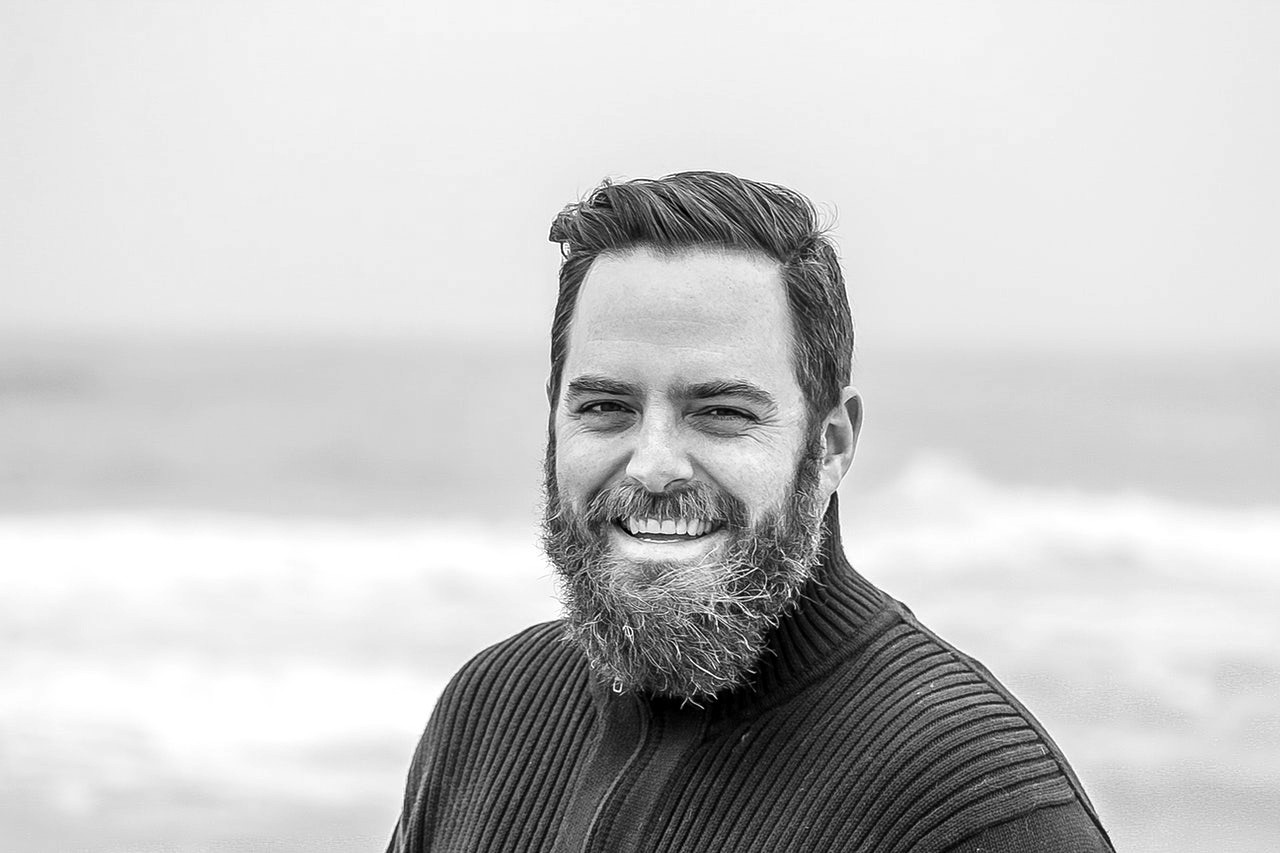
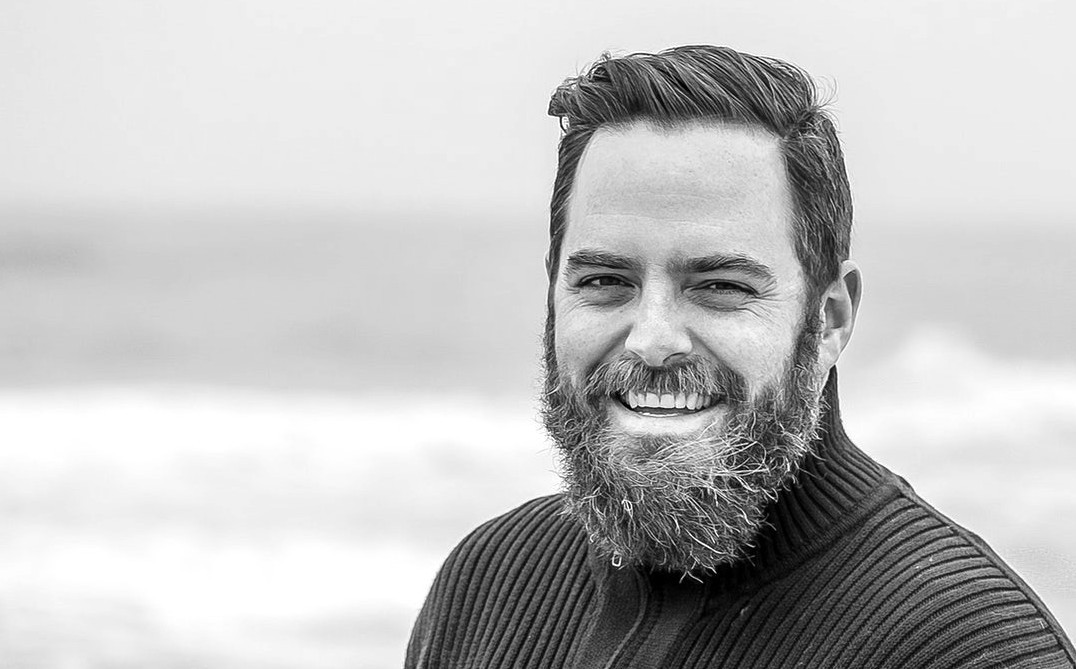
header profil

diff --git a/profil.html b/profil.html
@@ -7,6 +7,7 @@
     <meta http-equiv="X-UA-Compatible" content="ie=edge">
     <link rel="stylesheet" href="style.css">
     <link rel="stylesheet" href="navbar.css">
+    <link href="https://fonts.googleapis.com/css?family=Nunito|Poppins&display=swap" rel="stylesheet">
 
     <title>Profil</title>
 </head>
@@ -15,6 +16,46 @@
     <div id="mainContainer">
         <!-- Menu -->
 
+        <!-- Section Quentin -->
+
+        <div id="socialBar--top">
+            <ul>
+                <li>
+                    <a href="">
+                        <svg enable-background="new 0 0 16 16" version="1.1" viewBox="0 0 16 16" xml:space="preserve"
+                            xmlns="http://www.w3.org/2000/svg">
+                            <path
+                                d="M15.3,0H0.7C0.3,0,0,0.3,0,0.7v14.7C0,15.7,0.3,16,0.7,16H8v-5H6V8h2V6c0-2.1,1.2-3,3-3 c0.9,0,1.8,0,2,0v3h-1c-0.6,0-1,0.4-1,1v1h2.6L13,11h-2v5h4.3c0.4,0,0.7-0.3,0.7-0.7V0.7C16,0.3,15.7,0,15.3,0z" />
+                        </svg>
+                    </a>
+                </li>
+                <li><a href=""><svg enable-background="new 0 0 16 16" version="1.1" viewBox="0 0 16 16"
+                            xml:space="preserve" xmlns="http://www.w3.org/2000/svg">
+                            <path
+                                d="m16 3c-0.6 0.3-1.2 0.4-1.9 0.5 0.7-0.4 1.2-1 1.4-1.8-0.6 0.4-1.3 0.6-2.1 0.8-0.6-0.6-1.5-1-2.4-1-1.7 0-3.2 1.5-3.2 3.3 0 0.3 0 0.5 0.1 0.7-2.7-0.1-5.2-1.4-6.8-3.4-0.3 0.5-0.4 1-0.4 1.7 0 1.1 0.6 2.1 1.5 2.7-0.5 0-1-0.2-1.5-0.4 0 1.6 1.1 2.9 2.6 3.2-0.3 0.1-0.6 0.1-0.9 0.1-0.2 0-0.4 0-0.6-0.1 0.4 1.3 1.6 2.3 3.1 2.3-1.1 0.9-2.5 1.4-4.1 1.4h-0.8c1.5 0.9 3.2 1.5 5 1.5 6 0 9.3-5 9.3-9.3v-0.4c0.7-0.5 1.3-1.1 1.7-1.8z" />
+                        </svg></a></li>
+                <li><a href=""><svg enable-background="new 0 0 16 16" version="1.1" viewBox="0 0 16 16"
+                            xml:space="preserve" xmlns="http://www.w3.org/2000/svg">
+                            <circle cx="12.145" cy="3.892" r=".96" />
+                            <path
+                                d="m8 12c-2.206 0-4-1.794-4-4s1.794-4 4-4 4 1.794 4 4-1.794 4-4 4zm0-6c-1.103 0-2 0.897-2 2s0.897 2 2 2 2-0.897 2-2-0.897-2-2-2z"
+                                data-color="color-2" />
+                            <path
+                                d="m12 16h-8c-2.056 0-4-1.944-4-4v-8c0-2.056 1.944-4 4-4h8c2.056 0 4 1.944 4 4v8c0 2.056-1.944 4-4 4zm-8-14c-0.935 0-2 1.065-2 2v8c0 0.953 1.047 2 2 2h8c0.935 0 2-1.065 2-2v-8c0-0.935-1.065-2-2-2h-8z" />
+                        </svg></a></li>
+                <li><a href=""><svg enable-background="new 0 0 16 16" version="1.1" viewBox="0 0 16 16"
+                            xml:space="preserve" xmlns="http://www.w3.org/2000/svg">
+                            <path
+                                d="M15.8,4.8c-0.2-1.3-0.8-2.2-2.2-2.4C11.4,2,8,2,8,2S4.6,2,2.4,2.4C1,2.6,0.3,3.5,0.2,4.8C0,6.1,0,8,0,8 s0,1.9,0.2,3.2c0.2,1.3,0.8,2.2,2.2,2.4C4.6,14,8,14,8,14s3.4,0,5.6-0.4c1.4-0.3,2-1.1,2.2-2.4C16,9.9,16,8,16,8S16,6.1,15.8,4.8z M6,11V5l5,3L6,11z" />
+                        </svg>
+                    </a></li>
+            </ul>
+
+            <div class="rotate">
+                02 <div class="line"></div>
+            </div>
+
+        </div>
 
         <nav id="navbar" role="navigation">
 
@@ -41,6 +82,29 @@
             <img class="search" src="icons/search.svg" alt="">
 
         </nav>
+
+
+        <section id="faceHeader__profil">
+            <div id="ficheTalent__profil">
+
+                <div id="portrait__wide">
+                    <div id="name">
+                        <h1>Derek <br>Anderson</h1>
+                        <h2>British comedian</h2>
+                    </div>
+                </div>
+
+                <a class="ficheTalent__profil__link" href="">Enquire about Derek</a>
+
+            </div>
+
+        </section>
+
+
+
+
+
+
 
         <!-- Section Noah  -->
         <section id="sectionprofile">

diff --git a/about.html b/about.html
@@ -12,8 +12,49 @@
 </head>
 
 <body>
-    <div id="mainContainer">
 
+
+
+
+    <div id="mainContainer">
+        <div id="socialBar--top">
+            <ul>
+                <li>
+                    <a href="">
+                        <svg enable-background="new 0 0 16 16" version="1.1" viewBox="0 0 16 16" xml:space="preserve"
+                            xmlns="http://www.w3.org/2000/svg">
+                            <path
+                                d="M15.3,0H0.7C0.3,0,0,0.3,0,0.7v14.7C0,15.7,0.3,16,0.7,16H8v-5H6V8h2V6c0-2.1,1.2-3,3-3 c0.9,0,1.8,0,2,0v3h-1c-0.6,0-1,0.4-1,1v1h2.6L13,11h-2v5h4.3c0.4,0,0.7-0.3,0.7-0.7V0.7C16,0.3,15.7,0,15.3,0z" />
+                        </svg>
+                    </a>
+                </li>
+                <li><a href=""><svg enable-background="new 0 0 16 16" version="1.1" viewBox="0 0 16 16"
+                            xml:space="preserve" xmlns="http://www.w3.org/2000/svg">
+                            <path
+                                d="m16 3c-0.6 0.3-1.2 0.4-1.9 0.5 0.7-0.4 1.2-1 1.4-1.8-0.6 0.4-1.3 0.6-2.1 0.8-0.6-0.6-1.5-1-2.4-1-1.7 0-3.2 1.5-3.2 3.3 0 0.3 0 0.5 0.1 0.7-2.7-0.1-5.2-1.4-6.8-3.4-0.3 0.5-0.4 1-0.4 1.7 0 1.1 0.6 2.1 1.5 2.7-0.5 0-1-0.2-1.5-0.4 0 1.6 1.1 2.9 2.6 3.2-0.3 0.1-0.6 0.1-0.9 0.1-0.2 0-0.4 0-0.6-0.1 0.4 1.3 1.6 2.3 3.1 2.3-1.1 0.9-2.5 1.4-4.1 1.4h-0.8c1.5 0.9 3.2 1.5 5 1.5 6 0 9.3-5 9.3-9.3v-0.4c0.7-0.5 1.3-1.1 1.7-1.8z" />
+                        </svg></a></li>
+                <li><a href=""><svg enable-background="new 0 0 16 16" version="1.1" viewBox="0 0 16 16"
+                            xml:space="preserve" xmlns="http://www.w3.org/2000/svg">
+                            <circle cx="12.145" cy="3.892" r=".96" />
+                            <path
+                                d="m8 12c-2.206 0-4-1.794-4-4s1.794-4 4-4 4 1.794 4 4-1.794 4-4 4zm0-6c-1.103 0-2 0.897-2 2s0.897 2 2 2 2-0.897 2-2-0.897-2-2-2z"
+                                data-color="color-2" />
+                            <path
+                                d="m12 16h-8c-2.056 0-4-1.944-4-4v-8c0-2.056 1.944-4 4-4h8c2.056 0 4 1.944 4 4v8c0 2.056-1.944 4-4 4zm-8-14c-0.935 0-2 1.065-2 2v8c0 0.953 1.047 2 2 2h8c0.935 0 2-1.065 2-2v-8c0-0.935-1.065-2-2-2h-8z" />
+                        </svg></a></li>
+                <li><a href=""><svg enable-background="new 0 0 16 16" version="1.1" viewBox="0 0 16 16"
+                            xml:space="preserve" xmlns="http://www.w3.org/2000/svg">
+                            <path
+                                d="M15.8,4.8c-0.2-1.3-0.8-2.2-2.2-2.4C11.4,2,8,2,8,2S4.6,2,2.4,2.4C1,2.6,0.3,3.5,0.2,4.8C0,6.1,0,8,0,8 s0,1.9,0.2,3.2c0.2,1.3,0.8,2.2,2.2,2.4C4.6,14,8,14,8,14s3.4,0,5.6-0.4c1.4-0.3,2-1.1,2.2-2.4C16,9.9,16,8,16,8S16,6.1,15.8,4.8z M6,11V5l5,3L6,11z" />
+                        </svg>
+                    </a></li>
+            </ul>
+
+            <div class="rotate">
+                02 <div class="line"></div>
+            </div>
+
+        </div>
         <!-- Menu -->
 
 
@@ -60,10 +101,10 @@
                 <p>Lorem ipsum dolor sit amet consectetur adipisicing elit. Modi nemo voluptatum amet odio dolorem
                     perspiciatis vitae eaque quaerat libero quasi minima, harum ut nam placeat facere distinctio?
                     Voluptate reiciendis tenetur ullam qui totam ipsa accusantium corrupti minima.</p>
-                <a href=""><b><i>Motivation</i></b> Is The First<br/>Step To <b><i>Success</i></b></a>
+                <a href=""><b><i>Motivation</i></b> Is The First<br />Step To <b><i>Success</i></b></a>
             </div>
         </section>
-        <br/>
+        <br />
         <!-- Section Noah -->
         <section>
             <div class="sliderabout">

diff --git a/style.css b/style.css
@@ -6,6 +6,11 @@ couleur gris sombre (titre, etc ?) #1A191E
 
 */
 
+a {
+    font-family: 'Nunito';
+}
+
+
 body {
     margin: 0;
     padding: 0;
@@ -27,7 +32,7 @@ body {
 
 /* Section Quentin */
 
-#mainCarousel {
+#faceHeader {
     padding-top: 130px;
     width: 100%;
     min-height: 600px;
@@ -38,6 +43,8 @@ body {
     background-repeat: no-repeat;
     background-position: top right; */
 }
+
+
 
 #ficheTalent {
     display: grid;
@@ -51,7 +58,61 @@ body {
     grid-row: 1/5;
     background-image: url("images/derek.jpg");
     background-position: 0px;
-    background-size: 135%;
+    background-size: cover;
+
+}
+
+
+#ficheTalent__profil {
+    padding-right: 3em;
+    /* attention. uniformiser les marges */
+    height: 500px;
+    display: grid;
+    grid-template-columns: 2fr 3fr 6fr;
+    grid-template-rows: 4fr 1fr;
+    /* background-color: rgba(255, 166, 0, 0.521); */
+
+}
+
+
+
+
+
+
+.ficheTalent__profil__link {
+
+    color: #ACD6D4;
+    display: inline-grid;
+    justify-items: center;
+    align-items: center;
+    text-decoration: none;
+    background-color: white;
+    grid-column: 2/3;
+    grid-row: 2/3;
+    font-family: 'Nunito';
+    font-weight: 600;
+}
+
+#ficheTalent__profil__nav {}
+
+
+
+#faceHeader__profil {
+    padding-top: 130px;
+    width: 100%;
+    margin-bottom: 3em;
+}
+
+#portrait__wide {
+    grid-column: 2/4;
+    grid-row: 1/3;
+    background-image: url("images/derek.jpg");
+
+    background-size: cover;
+
+    background-repeat: no-repeat;
+
+
 }
 
 #name {
@@ -385,6 +446,7 @@ body {
 }
 
 #texteprofile h1 {
+
     font-size: 40px;
     font-weight: lighter;
     font-family: 'Nunito', sans-serif;
@@ -402,7 +464,7 @@ body {
 
 .texteprofile {
     width: 400px;
-    margin-top: auto;
+    margin-top: 3em;
     margin-bottom: auto;
     text-align: justify;
     font-family: 'Nunito',
@@ -1271,8 +1333,10 @@ footer {
 /* About Style */
 #main-about {
     background-image: url(images/aboutRobot.jpeg);
-    background-size: 400px 800px;
+    background-size: auto 800px;
     background-repeat: no-repeat;
+
+    background-position: top left;
     font-family: 'Nunito', sans-serif;
     margin-bottom: 50px;
 }
@@ -1308,7 +1372,7 @@ footer {
     margin-top: 14px;
 }
 
-#main-content-about a{
+#main-content-about a {
     display: block;
     background-color: black;
     height: 120px;
@@ -1322,7 +1386,7 @@ footer {
     padding-top: 55px;
 }
 
-#about-button a:first-child{
+#about-button a:first-child {
     display: block;
     text-decoration: none;
     background-color: #ACD6D4;
@@ -1336,12 +1400,12 @@ footer {
     padding-top: 20px;
 }
 
-#about-button img{
+#about-button img {
     height: 20px;
     width: 20px;
 }
 
-#about-button a{
+#about-button a {
     display: block;
     height: 60px;
     width: 60px;
@@ -1382,7 +1446,7 @@ footer {
     margin-left: 150px;
 }
 
-#contact-button a:first-child{
+#contact-button a:first-child {
     width: 200px;
     height: 40px;
     display: block;
@@ -1398,7 +1462,7 @@ footer {
     padding-top: 20px;
 }
 
-#contact-button a{
+#contact-button a {
     display: block;
     height: 70px;
     width: 70px;
@@ -1410,7 +1474,7 @@ footer {
     padding-top: 20px;
 }
 
-#contact-button img{
+#contact-button img {
     width: 20px;
     height: 20px;
 }

diff --git a/index.html b/index.html
@@ -8,7 +8,6 @@
     <link rel="stylesheet" href="style.css">
     <link rel="stylesheet" href="navbar.css">
     <link href="https://fonts.googleapis.com/css?family=Nunito|Poppins&display=swap" rel="stylesheet">
-    <link href="https://fonts.googleapis.com/css?family=Nunito|Poppins&display=swap" rel="stylesheet">
     <title>Homepage</title>
 </head>
 
@@ -93,7 +92,7 @@
         <!-- fin Menu -->
 
 
-        <section id="mainCarousel">
+        <section id="faceHeader">
             <div id="ficheTalent">
                 <a class="button" href="#">view profile </a>
                 <div id="portrait">
